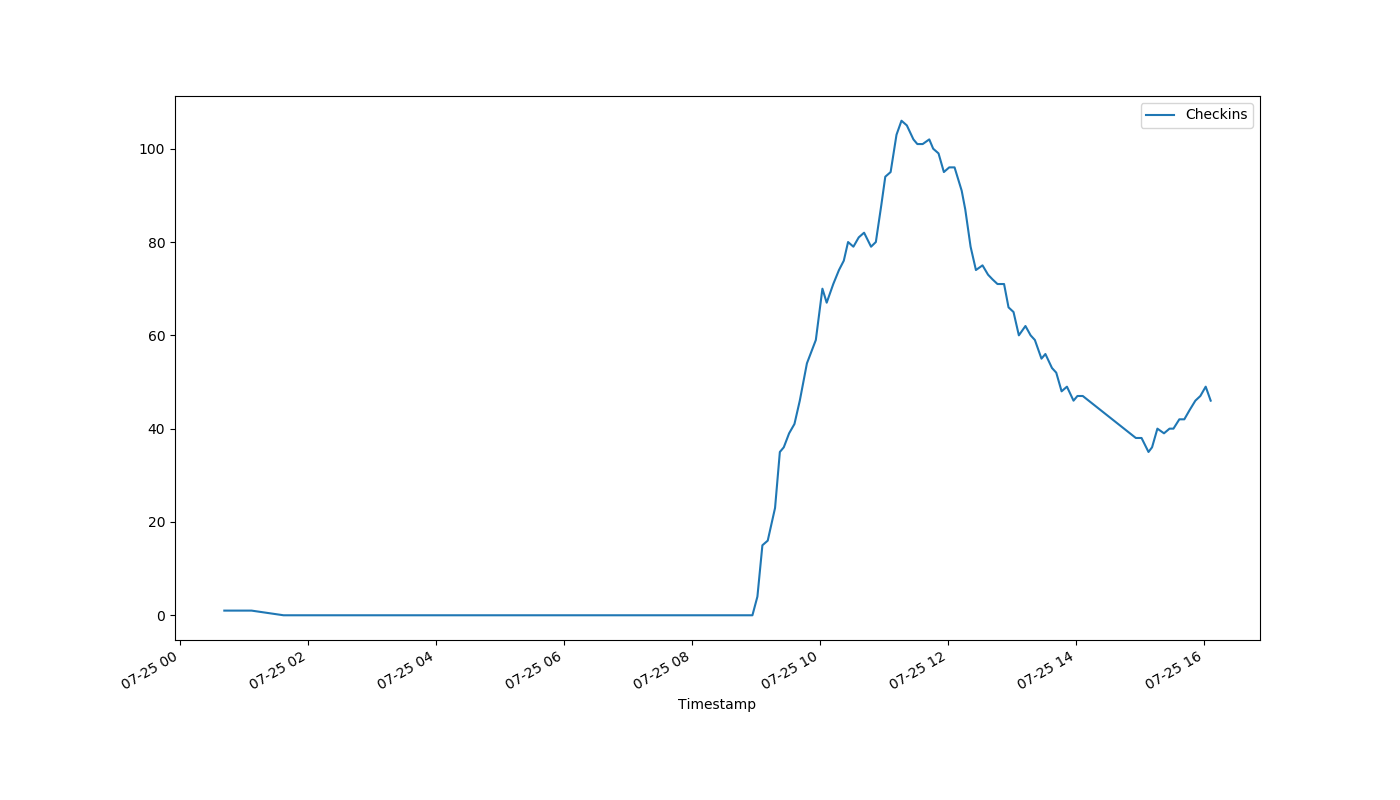
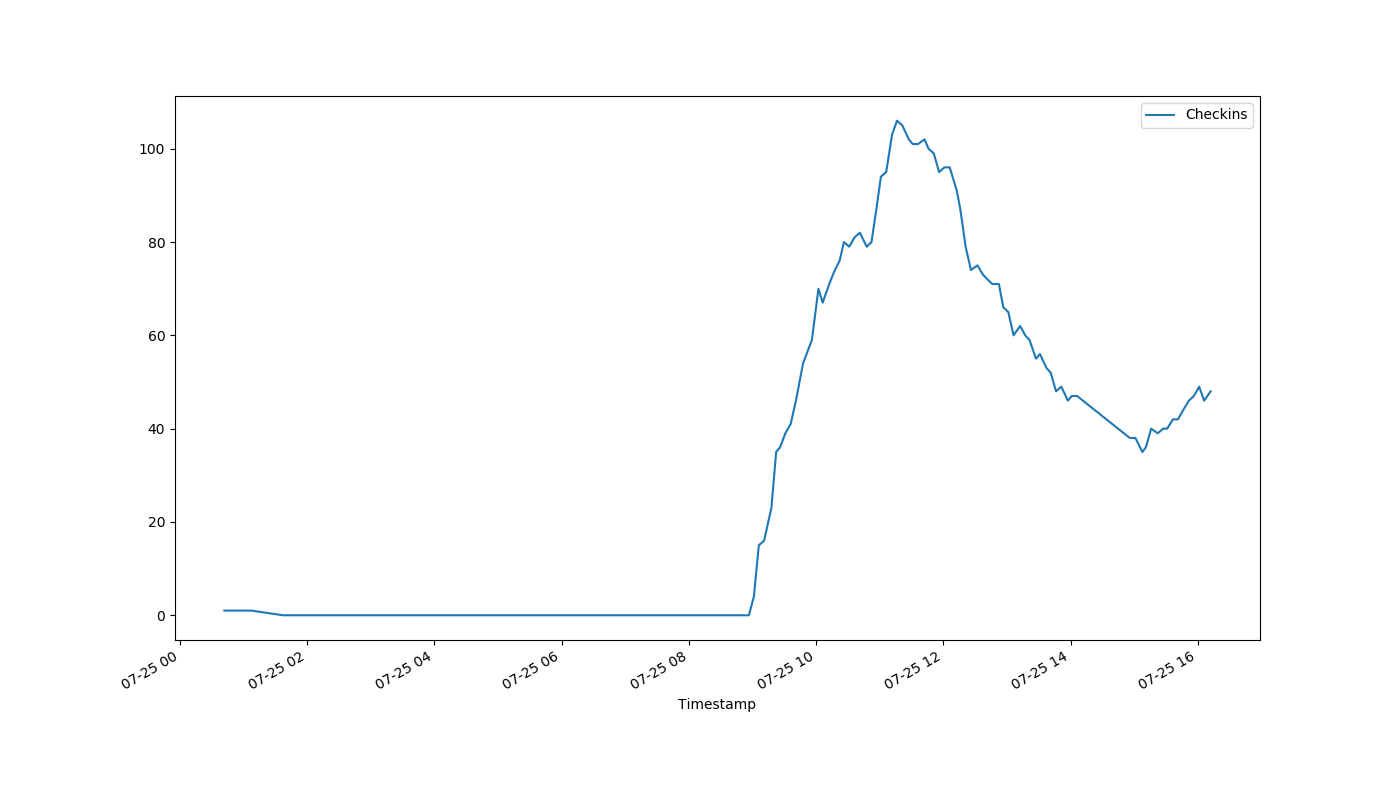
auto-Jul-25-16:13:41

diff --git a/index.html b/index.html
@@ -1,1 +1,1 @@
-<!DOCTYPE html><html><head><meta http-equiv="refresh" content="30"><link rel='stylesheet' href='holmcurrent.css'></head><body><p id='count'>46</p><div id='graph-wrap'><img id='graph' src='holmgraph-Jul-25.png'></div><p id='updated'>Last updated 16:06:08 / 16:06:00</p></body></html>
+<!DOCTYPE html><html><head><meta http-equiv="refresh" content="30"><link rel='stylesheet' href='holmcurrent.css'></head><body><p id='count'>48</p><div id='graph-wrap'><img id='graph' src='holmgraph-Jul-25.png'></div><p id='updated'>Last updated 16:13:08 / 16:12:11</p></body></html>
